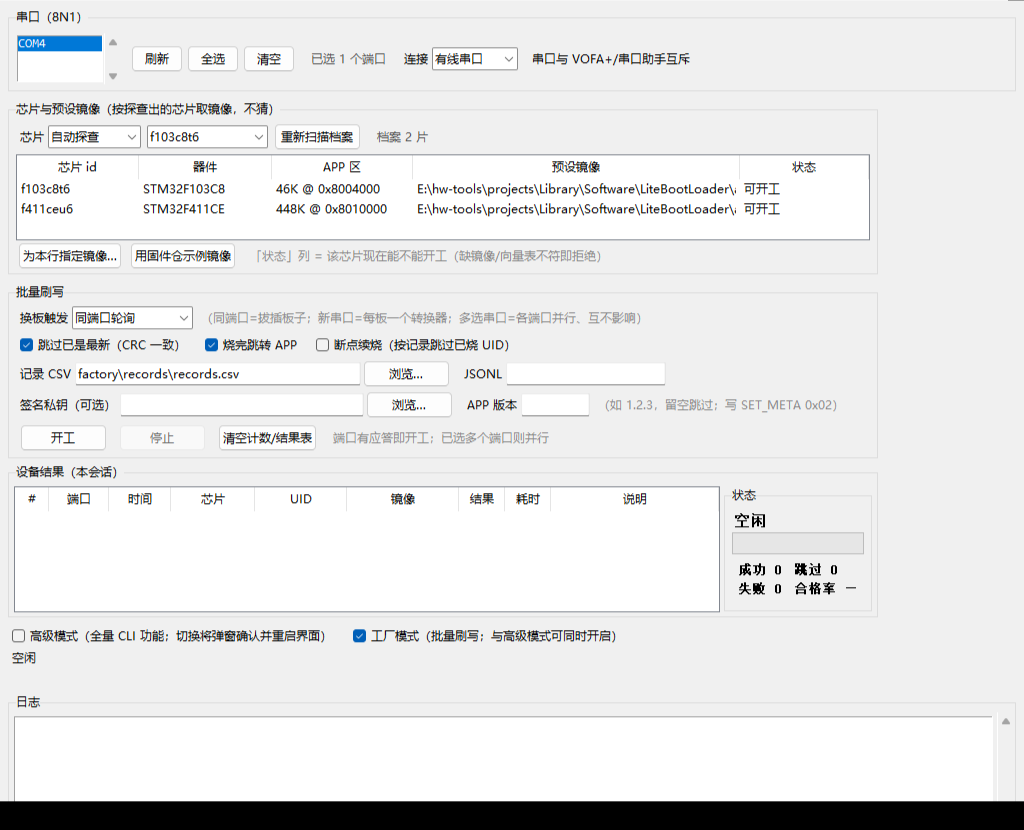
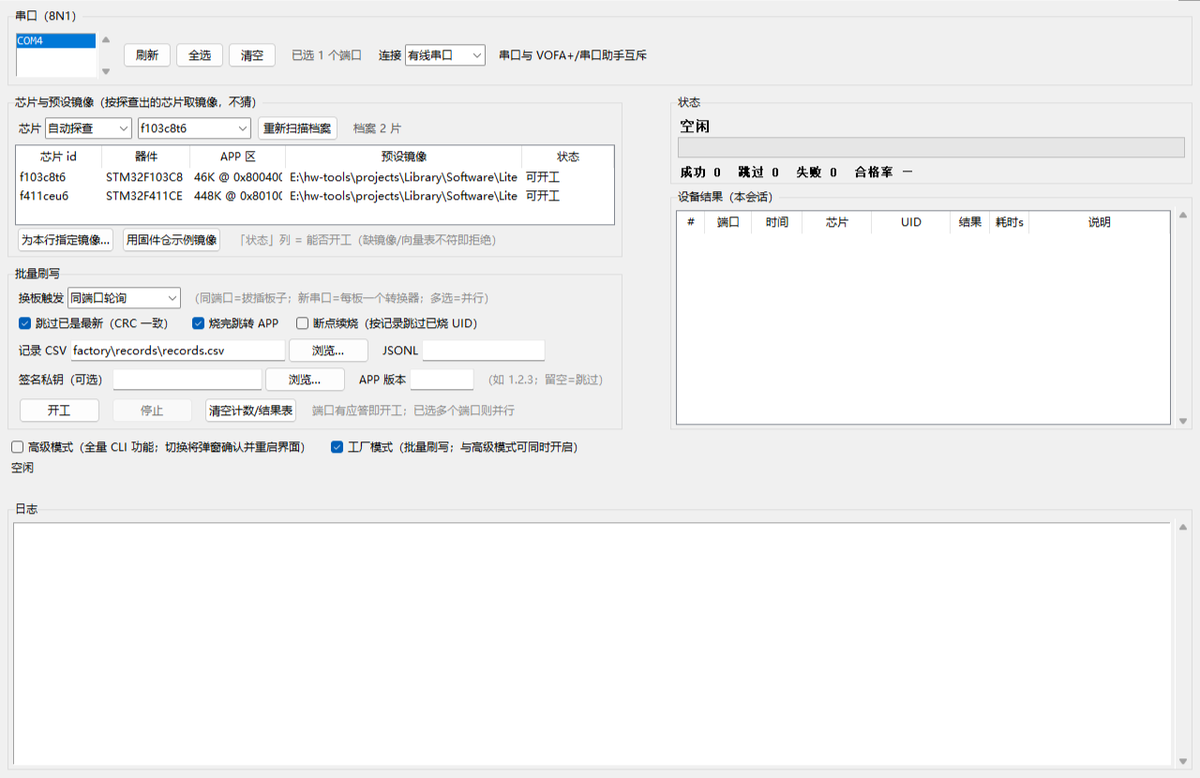
docs: 侧边栏版式说明与截图更新
- CHANGELOG [1.5.0]：Changed 的版式条改写为「工厂模式左右分栏（右侧边栏固定状态与
  设备结果、左侧面板区滚动）」，结果表条补列精简与侧边栏形态。
- README（zh/en）：GUI 段落与能力矩阵同步侧边栏形态（左区面板 / 右边栏状态+结果、
  窗口按屏幕收敛、必要时横向滚动条）；工厂模式的「状态栏逐端口」改为「侧边栏逐端口」。
- docs/：四张截图按侧边栏版式重拍（抓的是客户区，已裁掉 PrintWindow 的黑边）。

diff --git a/README.md b/README.md
@@ -58,8 +58,9 @@ uv run --python 3.12 --with pyserial bl_upgrade.py selftest --port COM4
 ![GUI 工厂模式](docs/gui_factory.png)
 
 两个模式开关**互相独立、可同时开启**（勾一个不会夹带另一个；工厂模式下还能再进高级模式，
-反之亦然）。同时开启时四个面板都在：窗口按屏幕尺寸收敛（不硬编码高度），面板区装不下时
-鼠标滚轮滚动查看，日志与状态行固定在下沿：
+反之亦然）。同时开启时四个面板都在，布局为**左面板区 + 右侧边栏**：边栏固定显示状态与
+设备结果（运行中最该盯的两块，不随滚动消失），左侧面板装不下时鼠标滚轮滚动查看，
+日志与状态行固定在下沿：
 
 ![GUI 工厂模式 + 高级模式](docs/gui_factory_adv.png)
 
@@ -72,9 +73,13 @@ uv run --python 3.12 --with pyserial bl_upgrade.py selftest --port COM4
 - **镜像栏**：显示补齐 4 字节对齐后的大小与 CRC32（与 VERIFY 期望值同口径）；
 - **高级面板（仅高级模式）**：INFO / META / OTA 查询 / ERASE（二次确认）/ SELFTEST /
   VERIFY / LISTEN / RAW / SETMETA，及波特率、pace(ms) 参数——行为与 CLI 逐一对齐；
-- **工厂面板（仅工厂模式）**：芯片与预设镜像表、批量刷写选项、设备结果表 +
-  **右侧状态栏**（大字状态/进度条/成功·跳过·失败·合格率/逐端口状态）；串口为**多选**
-  （选 N 个口 = N 个并行会话）；开工/停止共享 `busy` 互斥，与高级操作不会同时占串口；
+- **工厂面板（仅工厂模式）**：左区为芯片与预设镜像表、批量刷写选项；**右侧边栏**固定放
+  「状态」（大字状态/进度条/成功·跳过·失败·合格率/逐端口状态）与「设备结果」表
+  （# / 端口 / 时间 / 芯片 / UID / 结果 / 耗时 / 说明；镜像与 SHA-256 见记录文件与日志）；
+  串口为**多选**（选 N 个口 = N 个并行会话）；开工/停止共享 `busy` 互斥，
+  与高级操作不会同时占串口；
+- **窗口与滚动**：窗口尺寸按屏幕收敛（不硬编码高度），左侧面板区装不下时滚轮滚动
+  （必要时出横向滚动条），状态行与日志固定在下沿——小屏/双开都不会丢控件；
 - **串口互斥**：使用前请关闭 VOFA+ / 串口助手（COM 口独占）。
 
 > 工厂/高级的隔离是**能力隔离、资源互斥**：工厂侧不读高级面板的任何变量（波特率、
@@ -138,7 +143,7 @@ GUI（勾选「工厂模式」）与 CLI（`factory` 子命令）是同一引擎
 - **台数上限**按会话**汇总**计（不是每口各烧一遍上限）；达到上限即广播软停，
   已在烧的那几台会烧完，最多少「端口数-1」台；
 - **记录文件**多线程共享写（内部加锁）：只有一条表头，行按端口区分；
-- **状态栏**逐端口显示（等待/探查/烧录/结果），大字位置给并行汇总；
+- **侧边栏**逐端口显示状态（等待/探查/烧录/结果），大字位置给并行汇总；
 - 一个口都打不开 → 按环境问题报错（CLI 非零退出），不当成「跑完 0 台」；
 - CLI 等价：`--ports COM4,COM5`（不填则用 `--port` 单口）。
 
@@ -237,7 +242,7 @@ uv run --python 3.12 --with pyserial bl_upgrade.py factory \
 |---|---|
 | GUI 基础模式（默认） | 一键升级、跳转 APP、复位、PING + 串口枚举/刷新、连接类型（有线/蓝牙）、镜像 CRC32 预览、进度条/日志窗 |
 | GUI 高级模式（勾选确认后重启进入） | 在基础模式之上增加 CLI 全量 10 个调试/诊断操作（info / meta / ota / erase / verify / selftest / listen / raw / setmeta / **keygen**）与波特率、pace 参数，升级支持签名私钥（可选）——**与 CLI 功能同步** |
-| GUI 工厂模式（勾选确认后重启进入） | 芯片与预设镜像表、批量刷写（换板触发/跳过已是最新/断点续烧/刷完跳转/APP 版本/签名私钥/记录文件）、开工·停止、实时计数与合格率、右侧状态栏（含逐端口状态）、设备结果表——**与 CLI `factory` 同一引擎**；串口多选（N 个口 = N 个并行会话）；可与高级模式同时开启 |
+| GUI 工厂模式（勾选确认后重启进入） | 左区：芯片与预设镜像表、批量刷写（换板触发/跳过已是最新/断点续烧/刷完跳转/APP 版本/签名私钥/记录文件）、开工·停止；右侧边栏：状态（大字状态/进度条/计数与合格率/逐端口状态）与设备结果表（#/端口/时间/芯片/UID/结果/耗时/说明）——**与 CLI `factory` 同一引擎**；串口多选（N 个口 = N 个并行会话）；可与高级模式同时开启 |
 | CLI | 16 个子命令全量 + `-h/--help`、`--version`、`--conn`、`--key`、`--chip`、`--profiles` |
 
 ### 重试与超时（对应 LiteBootLoader 仓库 docs/protocol.md §6）

diff --git a/README.en.md b/README.en.md
@@ -70,9 +70,11 @@ detected chip, flashes units back to back and records every result for traceabil
 
 The two mode switches are **independent and can be enabled together** (ticking one never
 drags the other in; you can still enter advanced mode while factory mode is on, and vice
-versa). With both on, all four panels are present: the window shrinks to fit the screen
-(no hardcoded height), the panel area scrolls with the mouse wheel when it does not fit,
-and the log pane and status line stay pinned at the bottom:
+versa). With both on, all four panels are present, laid out as a **left panel area plus a
+right sidebar**: the sidebar keeps the status and the device result table visible at all
+times (the two things you watch during a batch — they never scroll away), the left panel
+area scrolls with the mouse wheel when it does not fit, and the log pane and status line
+stay pinned at the bottom:
 
 ![GUI factory + advanced mode](docs/gui_factory_adv.png)
 
@@ -88,11 +90,16 @@ and the log pane and status line stay pinned at the bottom:
 - **Advanced panel (advanced mode only)**: INFO / META / OTA query / ERASE (double
   confirmation) / SELFTEST / VERIFY / LISTEN / RAW / SETMETA, plus baud-rate and
   pace(ms) options — behavior aligned one-to-one with the CLI;
-- **Factory panel (factory mode only)**: chip & preset-image table, batch options, device
-  result table plus a **right-hand status column** (headline state / progress bar /
-  OK·SKIP·FAIL·pass rate / per-port state); ports are **multi-select** (N ports = N
-  parallel sessions); start/stop share the `busy` mutex so factory and
-  advanced operations never fight over the serial port;
+- **Factory panel (factory mode only)**: chip & preset-image table and batch options on the
+  left; a **right sidebar** pins the status block (headline state / progress bar /
+  OK·SKIP·FAIL·pass rate / per-port state) and the device result table (# / port / time /
+  chip / UID / result / elapsed / note — image and SHA-256 live in the record file and the
+  log); ports are **multi-select** (N ports = N parallel sessions); start/stop share the
+  `busy` mutex so factory and advanced operations never fight over the serial port;
+- **Window and scrolling**: the window is sized to the screen (no hardcoded height), the
+  left panel area scrolls with the wheel when it does not fit (a horizontal scrollbar
+  appears if needed), and the status line and log stay pinned at the bottom — on small
+  screens or with both modes on, no control is lost;
 - **Serial exclusivity**: close VOFA+ / other serial monitors first (a COM port is exclusive).
 
 > Factory/advanced isolation means **separated capabilities, one shared resource**: the
@@ -294,7 +301,7 @@ uv run --python 3.12 --with pyserial bl_upgrade.py factory \
 |---|---|
 | GUI basic mode (default) | One-click upgrade, jump to APP, reset, PING + serial enumeration/refresh, connection type (wired/Bluetooth), image CRC32 preview, progress bar/log pane |
 | GUI advanced mode (tick, confirm, UI restart) | On top of basic mode: all 10 CLI debug/diagnostic operations (info / meta / ota / erase / verify / selftest / listen / raw / setmeta / **keygen**) plus baud-rate and pace options, and an optional signing key for upgrades — **feature parity with the CLI** |
-| GUI factory mode (tick, confirm, UI restart) | Chip & preset-image table, batch flashing (board-swap trigger / skip-if-current / resume / jump after flash / APP version / signing key / record file), start·stop, live counters and pass rate, right-hand status column (per-port state), device result table — **the same engine as the CLI `factory`**; ports are multi-select (N ports = N parallel sessions); can be enabled together with advanced mode |
+| GUI factory mode (tick, confirm, UI restart) | Chip & preset-image table and batch flashing (board-swap trigger / skip-if-current / resume / jump after flash / APP version / signing key / record file) on the left, with a right sidebar holding the status block (headline state / progress bar / counters / per-port state) and the device result table — **the same engine as the CLI `factory`**; ports are multi-select (N ports = N parallel sessions); can be enabled together with advanced mode |
 | CLI | All 16 subcommands + `-h/--help`, `--version`, `--conn`, `--key`, `--chip`, `--profiles` |
 
 ### Retry & Timeout (mirrors the firmware repo's docs/protocol.md §6)

diff --git a/CHANGELOG.md b/CHANGELOG.md
@@ -52,15 +52,18 @@
   `parse_info` 拆出结构化同源 `parse_info_fields()`（字符串输出逐字节不变，单测回归兜底）。
 - **断电钻具 `bl_powerloss_drill.py`**：pyocd 目标名与 Keil pack 目录随 `--chip` 档案走
   （`--pack-root` / `--pack` / `--pyocd-target` 可覆盖），不再是 F103 字面常量。
-- **GUI 版式**：改为「按屏幕收敛 + 面板区可滚动」——窗口尺寸取内容需求与屏幕可用
-  （`屏幕 - 40/80 px`）的较小值，面板区放进画布：装得下就完全不滚动，装不下则滚动查看，
-  日志/状态行/模式开关始终留在窗口内。此前四种组合硬编码高度（双开 1010 px），
-  在 150% 缩放的 1080p（逻辑高度 ~720 px）上必然有一截够不着；同时把工厂状态栏
-  （大字状态、进度条、成功/跳过/失败/合格率）从整行上下排改为**结果表右侧竖列**，
-  双开时再省掉几行提示文案。单测加「内容装得进窗口」与「小屏用滚动替代裁剪」断言。
-- **GUI 工厂结果表**：加**端口**列（多端口时才能分辨哪台在哪口），时间列改为只显示
-  `时:分:秒`（完整时间戳仍在 CSV/JSONL 里）；行号键取 `(端口, seq)`——多端口下两个
-  端口会有同名 seq。
+- **GUI 版式（工厂模式改左右分栏）**：窗口尺寸取内容需求与屏幕可用（`屏幕 - 40/80 px`）
+  的较小值——此前四种组合硬编码高度（双开 1010 px），在 150% 缩放的 1080p
+  （逻辑高度 ~720 px）上必然有一截够不着。工厂模式改为**左面板区 + 右侧边栏**：
+  边栏固定放「状态」（大字状态 / 进度条 / 成功·跳过·失败·合格率 / 逐端口状态）与
+  「设备结果」表——运行中最该盯的两块常驻可见；左侧面板（芯片与预设镜像、批量刷写，
+  双开时还有高级操作）放进画布，装不下时滚轮滚动（必要时横向滚动条兜底），
+  日志 / 状态行 / 模式开关固定在窗口内，富余高度给日志。双开时再省掉几行提示文案。
+  单测加「内容装得进窗口」与「小屏用滚动替代裁剪（且侧边栏仍固定）」断言。
+- **GUI 工厂结果表**：改为侧边栏形态，列精简为 # / 端口 / 时间 / 芯片 / UID / 结果 /
+  耗时s / 说明（镜像与 SHA-256 见 CSV/JSONL 与日志）；加**端口**列（多端口时才能分辨
+  哪台在哪口），时间只显示 `时:分:秒`（完整时间戳仍在记录里）；行号键取 `(端口, seq)`
+  ——多端口下两个端口会有同名 seq。
 - **GUI 行为**：开工与模式切换此前会清空结果表与计数——现改为跨批次累计
   （清空由「清空计数/结果表」按钮负责）；结果表行号跨会话唯一
   （两次会话的 seq 都从 1 起，此前第二次会话会覆盖第一次的行）；
